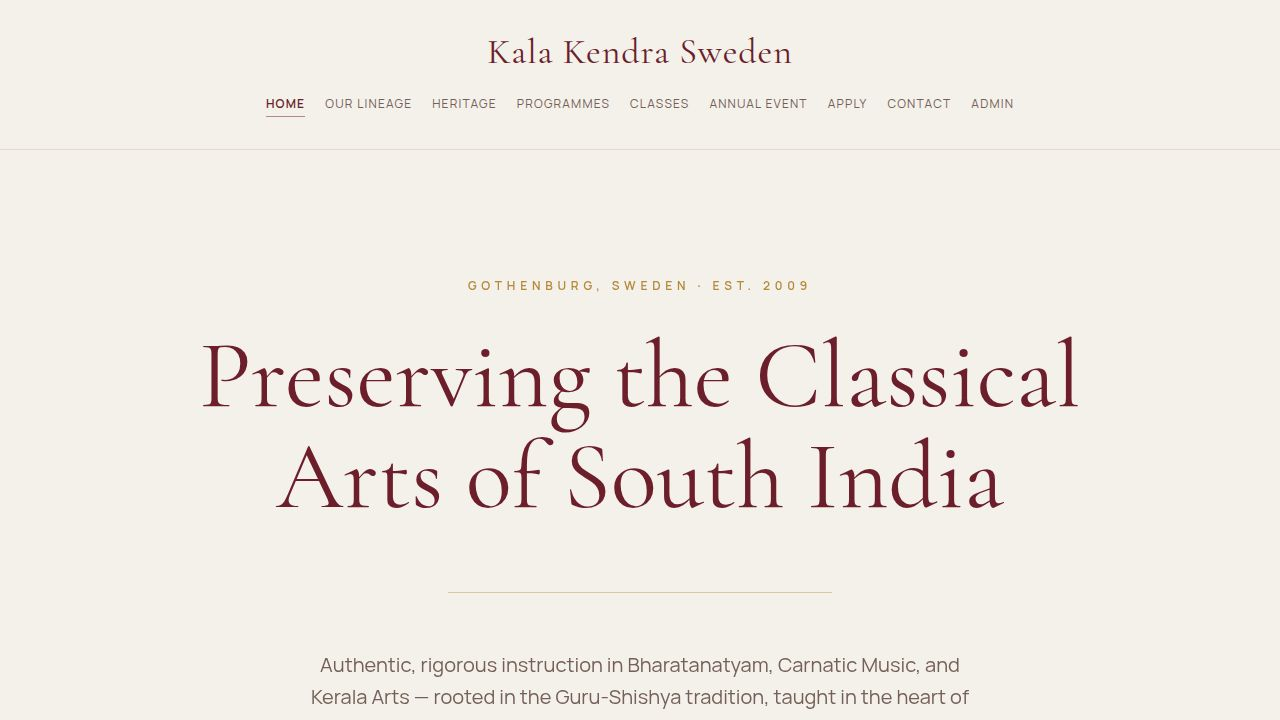
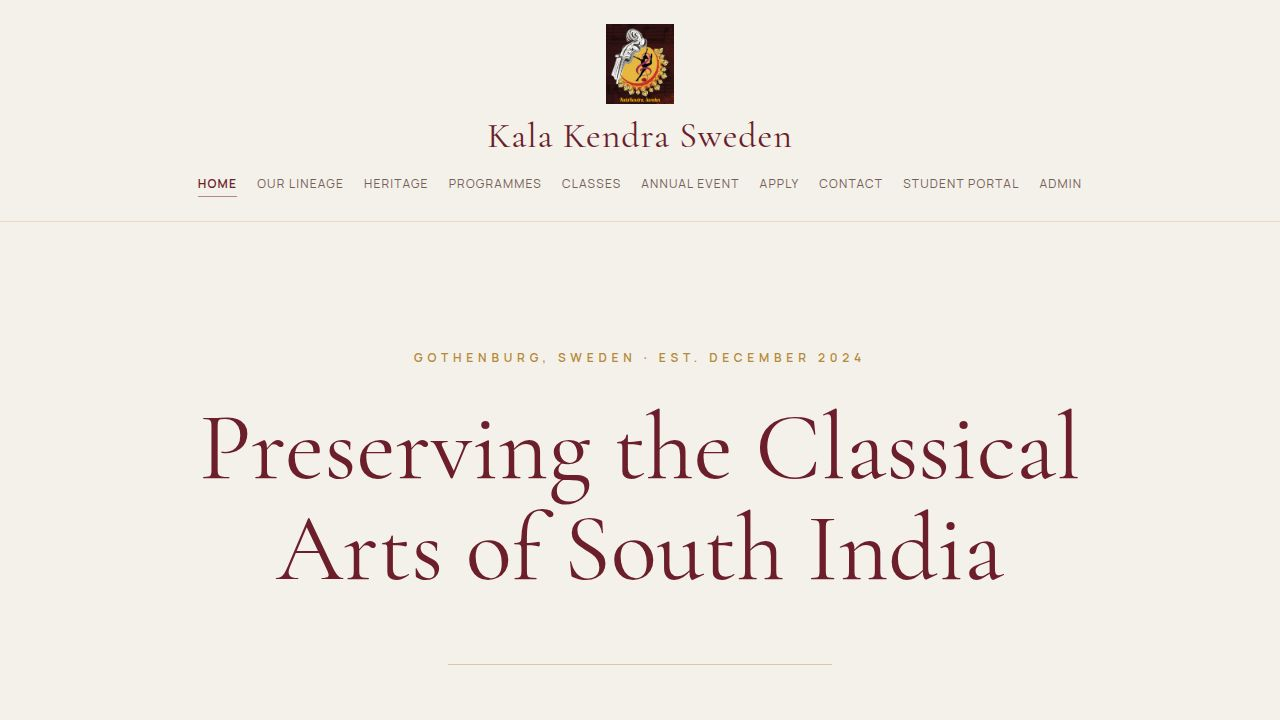
Add contact information to the website footer and layout
Adds WhatsApp and phone number links to the PublicLayout component and updates opengraph image.

Replit-Commit-Author: Agent
Replit-Commit-Session-Id: 6031a336-11e7-4386-9b54-38d41eff896d
Replit-Commit-Checkpoint-Type: full_checkpoint
Replit-Commit-Event-Id: 28c59e11-e460-4364-843b-67b3b354eeb4
Replit-Commit-Screenshot-Url: https://storage.googleapis.com/screenshot-production-us-central1/52283981-7666-4a56-9843-fa5cc239a2e0/6031a336-11e7-4386-9b54-38d41eff896d/8CMh8SA
Replit-Helium-Checkpoint-Created: true

diff --git a/artifacts/kala-kendra/src/components/layout/PublicLayout.tsx b/artifacts/kala-kendra/src/components/layout/PublicLayout.tsx
@@ -85,6 +85,29 @@ export function PublicLayout({ children }: { children: ReactNode }) {
               <a href="mailto:[email redacted]" className="block hover:text-primary transition-colors">
                 [email redacted]
               </a>
+              <a
+                href="https://wa.me/919207413346"
+                target="_blank"
+                rel="noopener noreferrer"
+                className="flex items-center gap-2 hover:text-primary transition-colors"
+              >
+                <svg className="h-3.5 w-3.5 text-green-600 shrink-0" viewBox="0 0 24 24" fill="currentColor">
+                  <path d="M17.472 14.382c-.297-.149-1.758-.867-2.03-.967-.273-.099-.471-.148-.67.15-.197.297-.767.966-.94 1.164-.173.199-.347.223-.644.075-.297-.15-1.255-.463-2.39-1.475-.883-.788-1.48-1.761-1.653-2.059-.173-.297-.018-.458.13-.606.134-.133.298-.347.446-.52.149-.174.198-.298.298-.497.099-.198.05-.371-.025-.52-.075-.149-.669-1.612-.916-2.207-.242-.579-.487-.5-.669-.51-.173-.008-.371-.01-.57-.01-.198 0-.52.074-.792.372-.272.297-1.04 1.016-1.04 2.479 0 1.462 1.065 2.875 1.213 3.074.149.198 2.096 3.2 5.077 4.487.709.306 1.262.489 1.694.625.712.227 1.36.195 1.871.118.571-.085 1.758-.719 2.006-1.413.248-.694.248-1.289.173-1.413-.074-.124-.272-.198-.57-.347m-5.421 7.403h-.004a9.87 9.87 0 01-5.031-1.378l-.361-.214-3.741.982.998-3.648-.235-.374a9.86 9.86 0 01-1.51-5.26c.001-5.45 4.436-9.884 9.888-9.884 2.64 0 5.122 1.03 6.988 2.898a9.825 9.825 0 012.893 6.994c-.003 5.45-4.437 9.884-9.885 9.884m8.413-18.297A11.815 11.815 0 0012.05 0C5.495 0 .16 5.335.157 11.892c0 2.096.547 4.142 1.588 5.945L.057 24l6.305-1.654a11.882 11.882 0 005.683 1.448h.005c6.554 0 11.89-5.335 11.893-11.893a11.821 11.821 0 00-3.48-8.413z"/>
+                </svg>
+                [phone redacted]
+              </a>
+              <a href="tel:[phone redacted]" className="flex items-center gap-2 hover:text-primary transition-colors">
+                <svg className="h-3.5 w-3.5 shrink-0" viewBox="0 0 24 24" fill="none" stroke="currentColor" strokeWidth="2">
+                  <path d="M22 16.92v3a2 2 0 01-2.18 2 19.79 19.79 0 01-8.63-3.07A19.5 19.5 0 013.07 9.81 19.79 19.79 0 01.22 1.18 2 2 0 012.18 0h3a2 2 0 012 1.72c.127.96.361 1.903.7 2.81a2 2 0 01-.45 2.11L6.91 7.09a16 16 0 006 6l.62-.62a2 2 0 012.11-.45c.907.339 1.85.573 2.81.7A2 2 0 0122 14.92z"/>
+                </svg>
+                [phone redacted]
+              </a>
+              <a href="tel:[phone redacted]" className="flex items-center gap-2 hover:text-primary transition-colors">
+                <svg className="h-3.5 w-3.5 shrink-0" viewBox="0 0 24 24" fill="none" stroke="currentColor" strokeWidth="2">
+                  <path d="M22 16.92v3a2 2 0 01-2.18 2 19.79 19.79 0 01-8.63-3.07A19.5 19.5 0 013.07 9.81 19.79 19.79 0 01.22 1.18 2 2 0 012.18 0h3a2 2 0 012 1.72c.127.96.361 1.903.7 2.81a2 2 0 01-.45 2.11L6.91 7.09a16 16 0 006 6l.62-.62a2 2 0 012.11-.45c.907.339 1.85.573 2.81.7A2 2 0 0122 14.92z"/>
+                </svg>
+                [phone redacted]
+              </a>
               <div className="pt-2">
                 <Link href="/privacy" className="text-xs hover:text-primary transition-colors underline underline-offset-2">
                   Privacy Policy